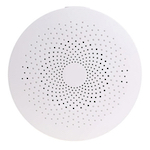
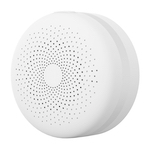
Update GWRJN5169.md (#637)
* Update GWRJN5169.md

* Update GWRJN5169.md

* Update GWRJN5169.jpg

diff --git a/docs/devices/GWRJN5169.md b/docs/devices/GWRJN5169.md
@@ -12,15 +12,24 @@ description: "Integrate your OpenLumi GWRJN5169 via Zigbee2MQTT with whatever sm
 | Model | GWRJN5169  |
 | Vendor  | OpenLumi  |
 | Description | [Lumi Router (JN5169)](https://github.com/igo-r/Lumi-Router-JN5169) |
-| Exposes | linkquality |
+| Exposes | device_temperature, linkquality |
 | Picture | ![OpenLumi GWRJN5169](../images/devices/GWRJN5169.jpg) |
 
 ## Notes
 
-None
+Zigbee Router for __Xiaomi DGNWG05LM__ and __Aqara ZHWG11LM__ gateways.
+
+### Firmware
+Open source firmware can be found here: [Github](https://github.com/igo-r/Lumi-Router-JN5169)
 
 
 ## Exposes
+
+### Device_temperature (numeric)
+Temperature of the device.
+Value can be found in the published state on the `device_temperature` property.
+It's not possible to read (`/get`) or write (`/set`) this value.
+The unit of this value is `°C`.
 
 ### Linkquality (numeric)
 Link quality (signal strength).
@@ -36,6 +45,13 @@ manual integration is possible with the following configuration:
 
 {% raw %}
 ```yaml
+sensor:
+  - platform: "mqtt"
+    state_topic: "zigbee2mqtt/<FRIENDLY_NAME>"
+    availability_topic: "zigbee2mqtt/bridge/state"
+    unit_of_measurement: "°C"
+    value_template: "{{ value_json.device_temperature }}"
+
 sensor:
   - platform: "mqtt"
     state_topic: "zigbee2mqtt/<FRIENDLY_NAME>"
